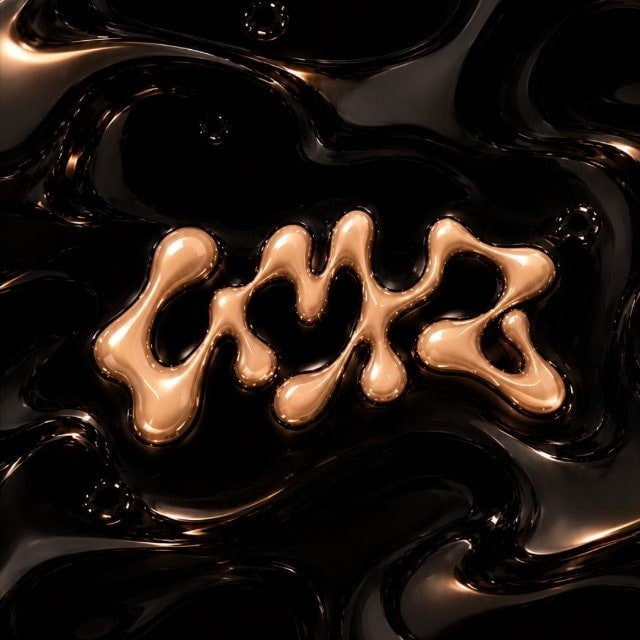
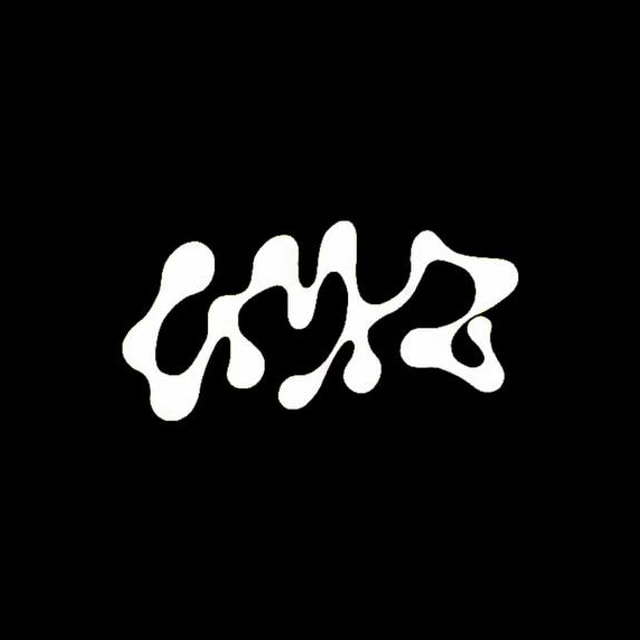
Новый баннер: белый логотип на чёрном фоне

diff --git a/apps/miniapp/src/styles/app.css b/apps/miniapp/src/styles/app.css
@@ -121,7 +121,7 @@
   aspect-ratio: 16 / 9;
   border-radius: var(--radius-lg);
   overflow: hidden;
-  background: #080808;
+  background: #000000;
   margin-bottom: 4px;
 }
 
